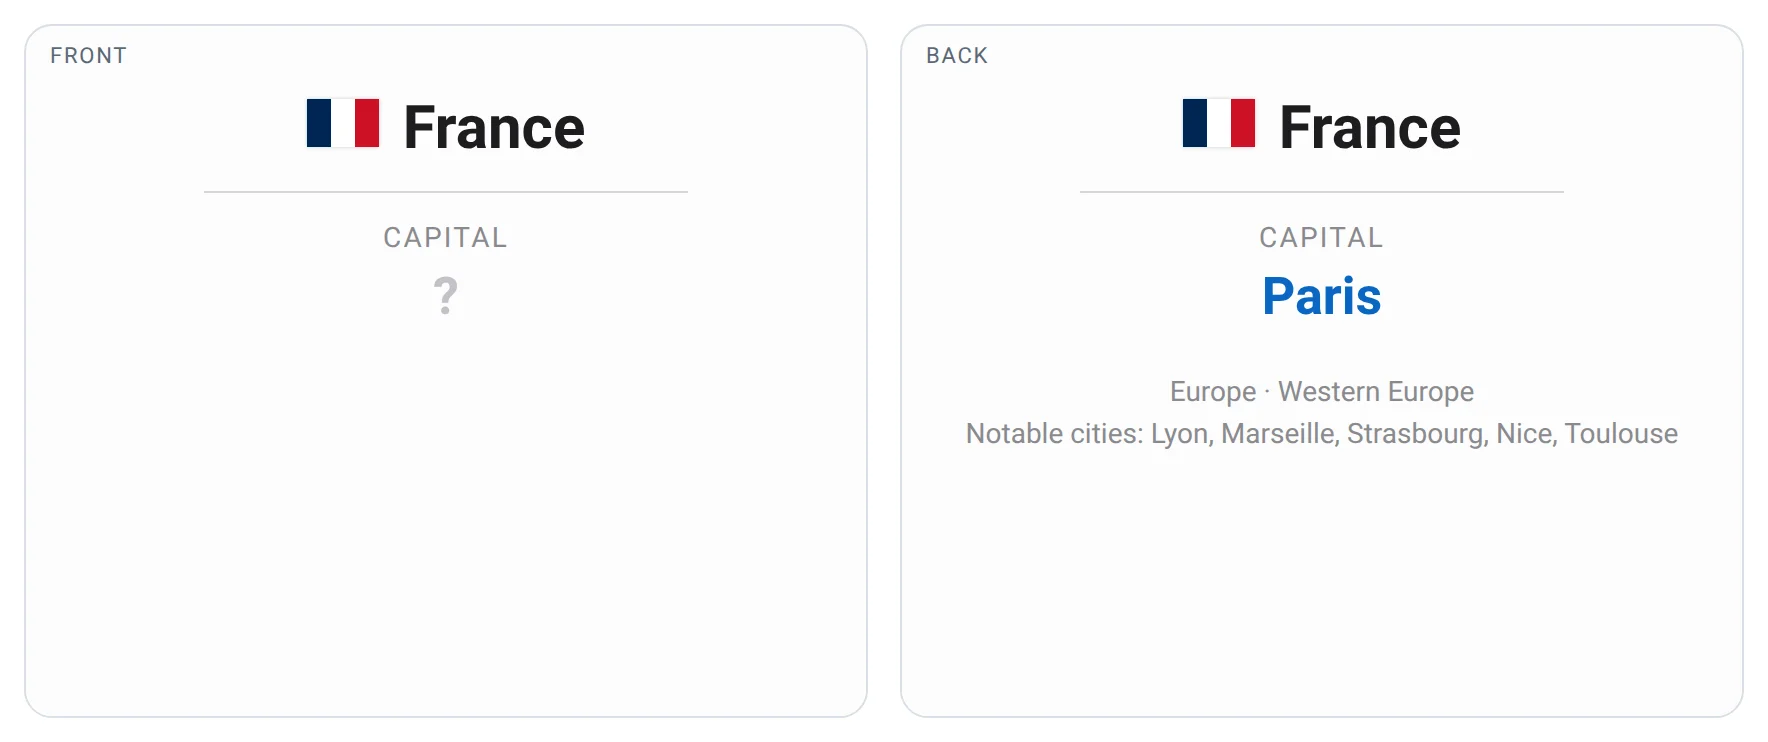
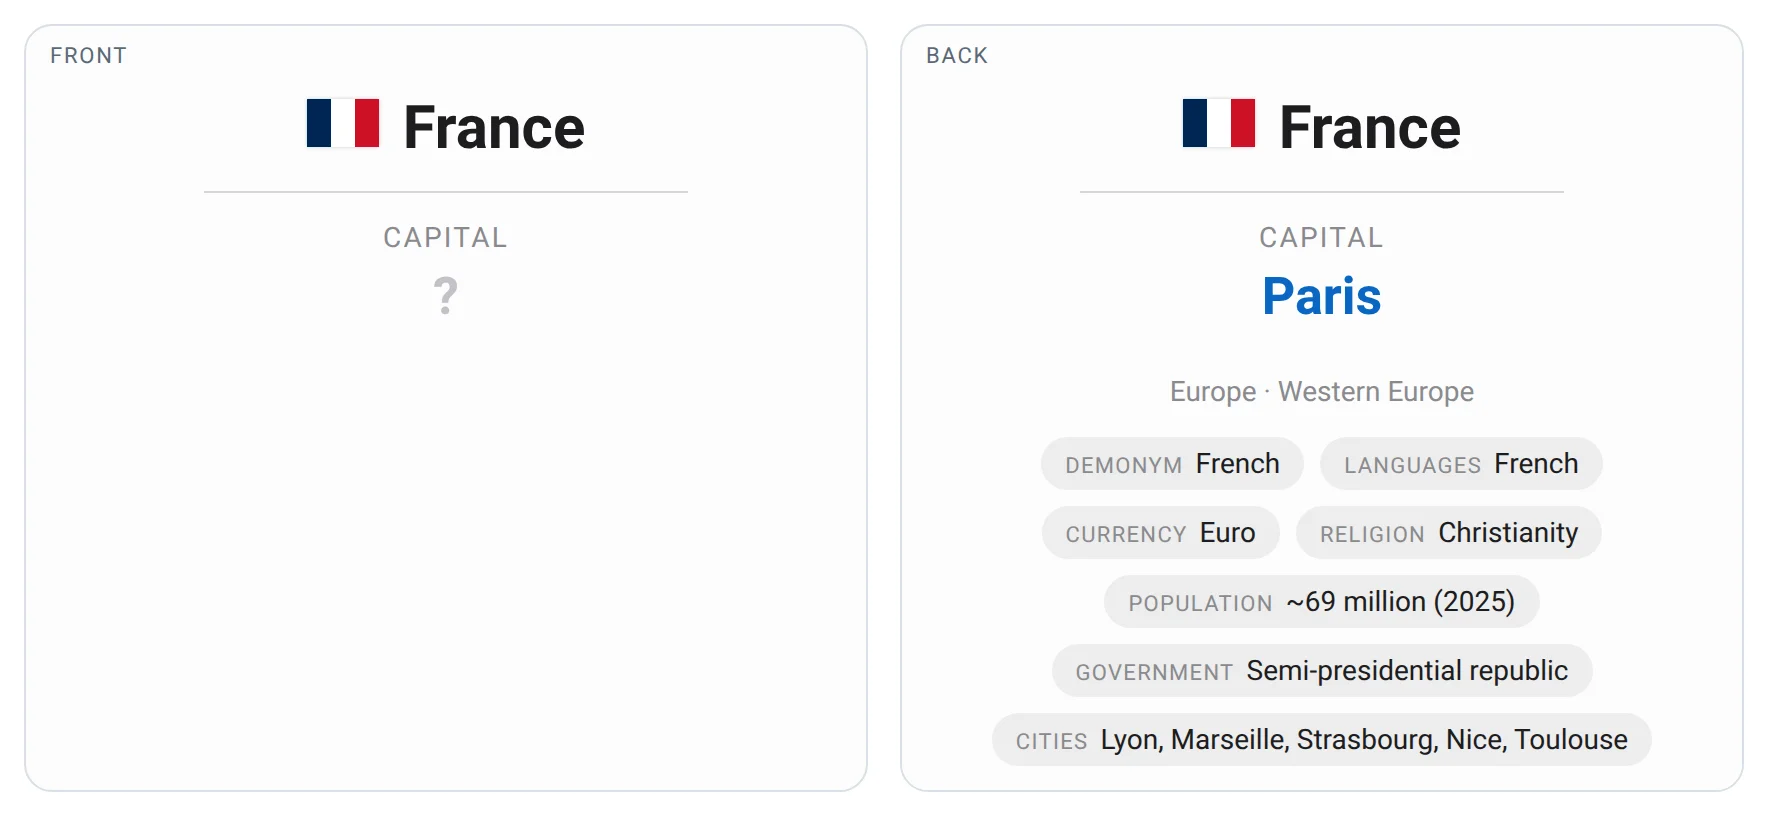
Drop the samples of removed cards and redraw the rest with the new backs

diff --git a/src/geography/samples.py b/src/geography/samples.py
@@ -45,12 +45,6 @@ SAMPLES = (
     Sample("ultimate_countries.apkg", "Ultimate Countries country", "Capital of", "France", "countries-capital-of.webp"),
     Sample("ultimate_countries.apkg", "Ultimate Countries country", "Flag", "France", "countries-flag.webp"),
     Sample("ultimate_countries.apkg", "Ultimate Countries country", "Map", "France", "countries-map.webp"),
-    Sample("ultimate_countries.apkg", "Ultimate Countries country", "Demonym", "France", "countries-demonym.webp"),
-    Sample("ultimate_countries.apkg", "Ultimate Countries country", "Language", "Switzerland", "countries-language.webp"),
-    Sample("ultimate_countries.apkg", "Ultimate Countries country", "Currency", "Panama", "countries-currency.webp"),
-    Sample("ultimate_countries.apkg", "Ultimate Countries country", "Religion", "Malta", "countries-religion.webp"),
-    Sample("ultimate_countries.apkg", "Ultimate Countries country", "Population", "Nigeria", "countries-population.webp"),
-    Sample("ultimate_countries.apkg", "Ultimate Countries country", "Government", "Germany", "countries-government.webp"),
     Sample("ultimate_countries.apkg", "Ultimate Countries city", "Map", "Lyon", "cities-map.webp"),
     Sample("ultimate_countries.apkg", "Ultimate Countries city", "Country", "Lyon", "cities-country.webp"),
     Sample("ultimate_places.apkg", "Ultimate Places place", "Map", "Mount Fuji", "places-map.webp"),
